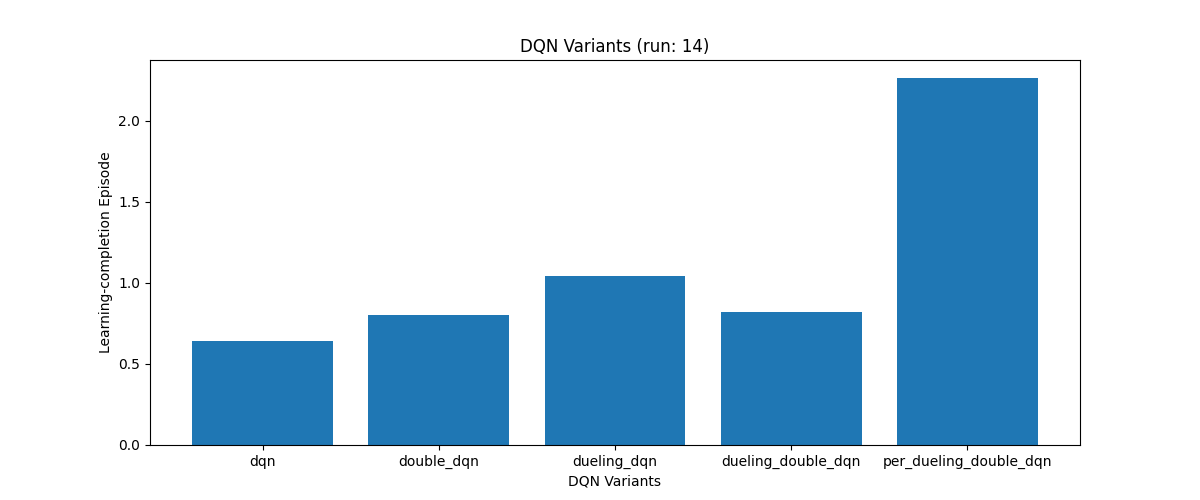
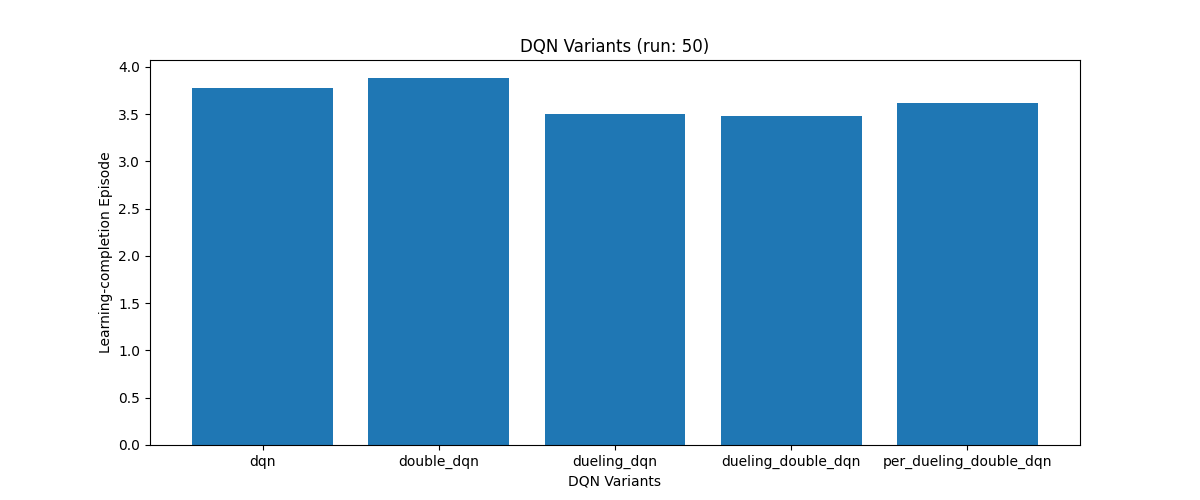
...

diff --git a/chapter_10/compare_all_dqns.py b/chapter_10/compare_all_dqns.py
@@ -17,7 +17,7 @@ dqn_variants = [
 ]
 
 def main():
-    performance = np.zeros((len(dqn_variants), max_runs))
+    sum_performance = np.zeros(shape=(len(dqn_variants), ))
     for run in range(max_runs):
         print("######### run:{0} #########".format(run))
         env = gym.make('CartPole-v1')
@@ -40,13 +40,13 @@ def main():
         per_dueling_double_dqn_agent = PerDuelingDoubleDqnAgent(env)
         per_dueling_double_dqn_last_episode = per_dueling_double_dqn_agent.learn()
 
-        performance[0, run] = dqn_last_episode
-        performance[1, run] = double_dqn_last_episode
-        performance[2, run] = dueling_dqn_last_episode
-        performance[3, run] = dueling_double_dqn_last_episode
-        performance[4, run] = per_dueling_double_dqn_last_episode
+        sum_performance[0] += dqn_last_episode
+        sum_performance[1] += double_dqn_last_episode
+        sum_performance[2] += dueling_dqn_last_episode
+        sum_performance[3] += dueling_double_dqn_last_episode
+        sum_performance[4] += per_dueling_double_dqn_last_episode
 
-        mean_performance = performance.mean(axis=1)
+        mean_performance = sum_performance / (run + 1)
 
         plt.figure(figsize=(12, 5))
         plt.bar(dqn_variants, mean_performance)
